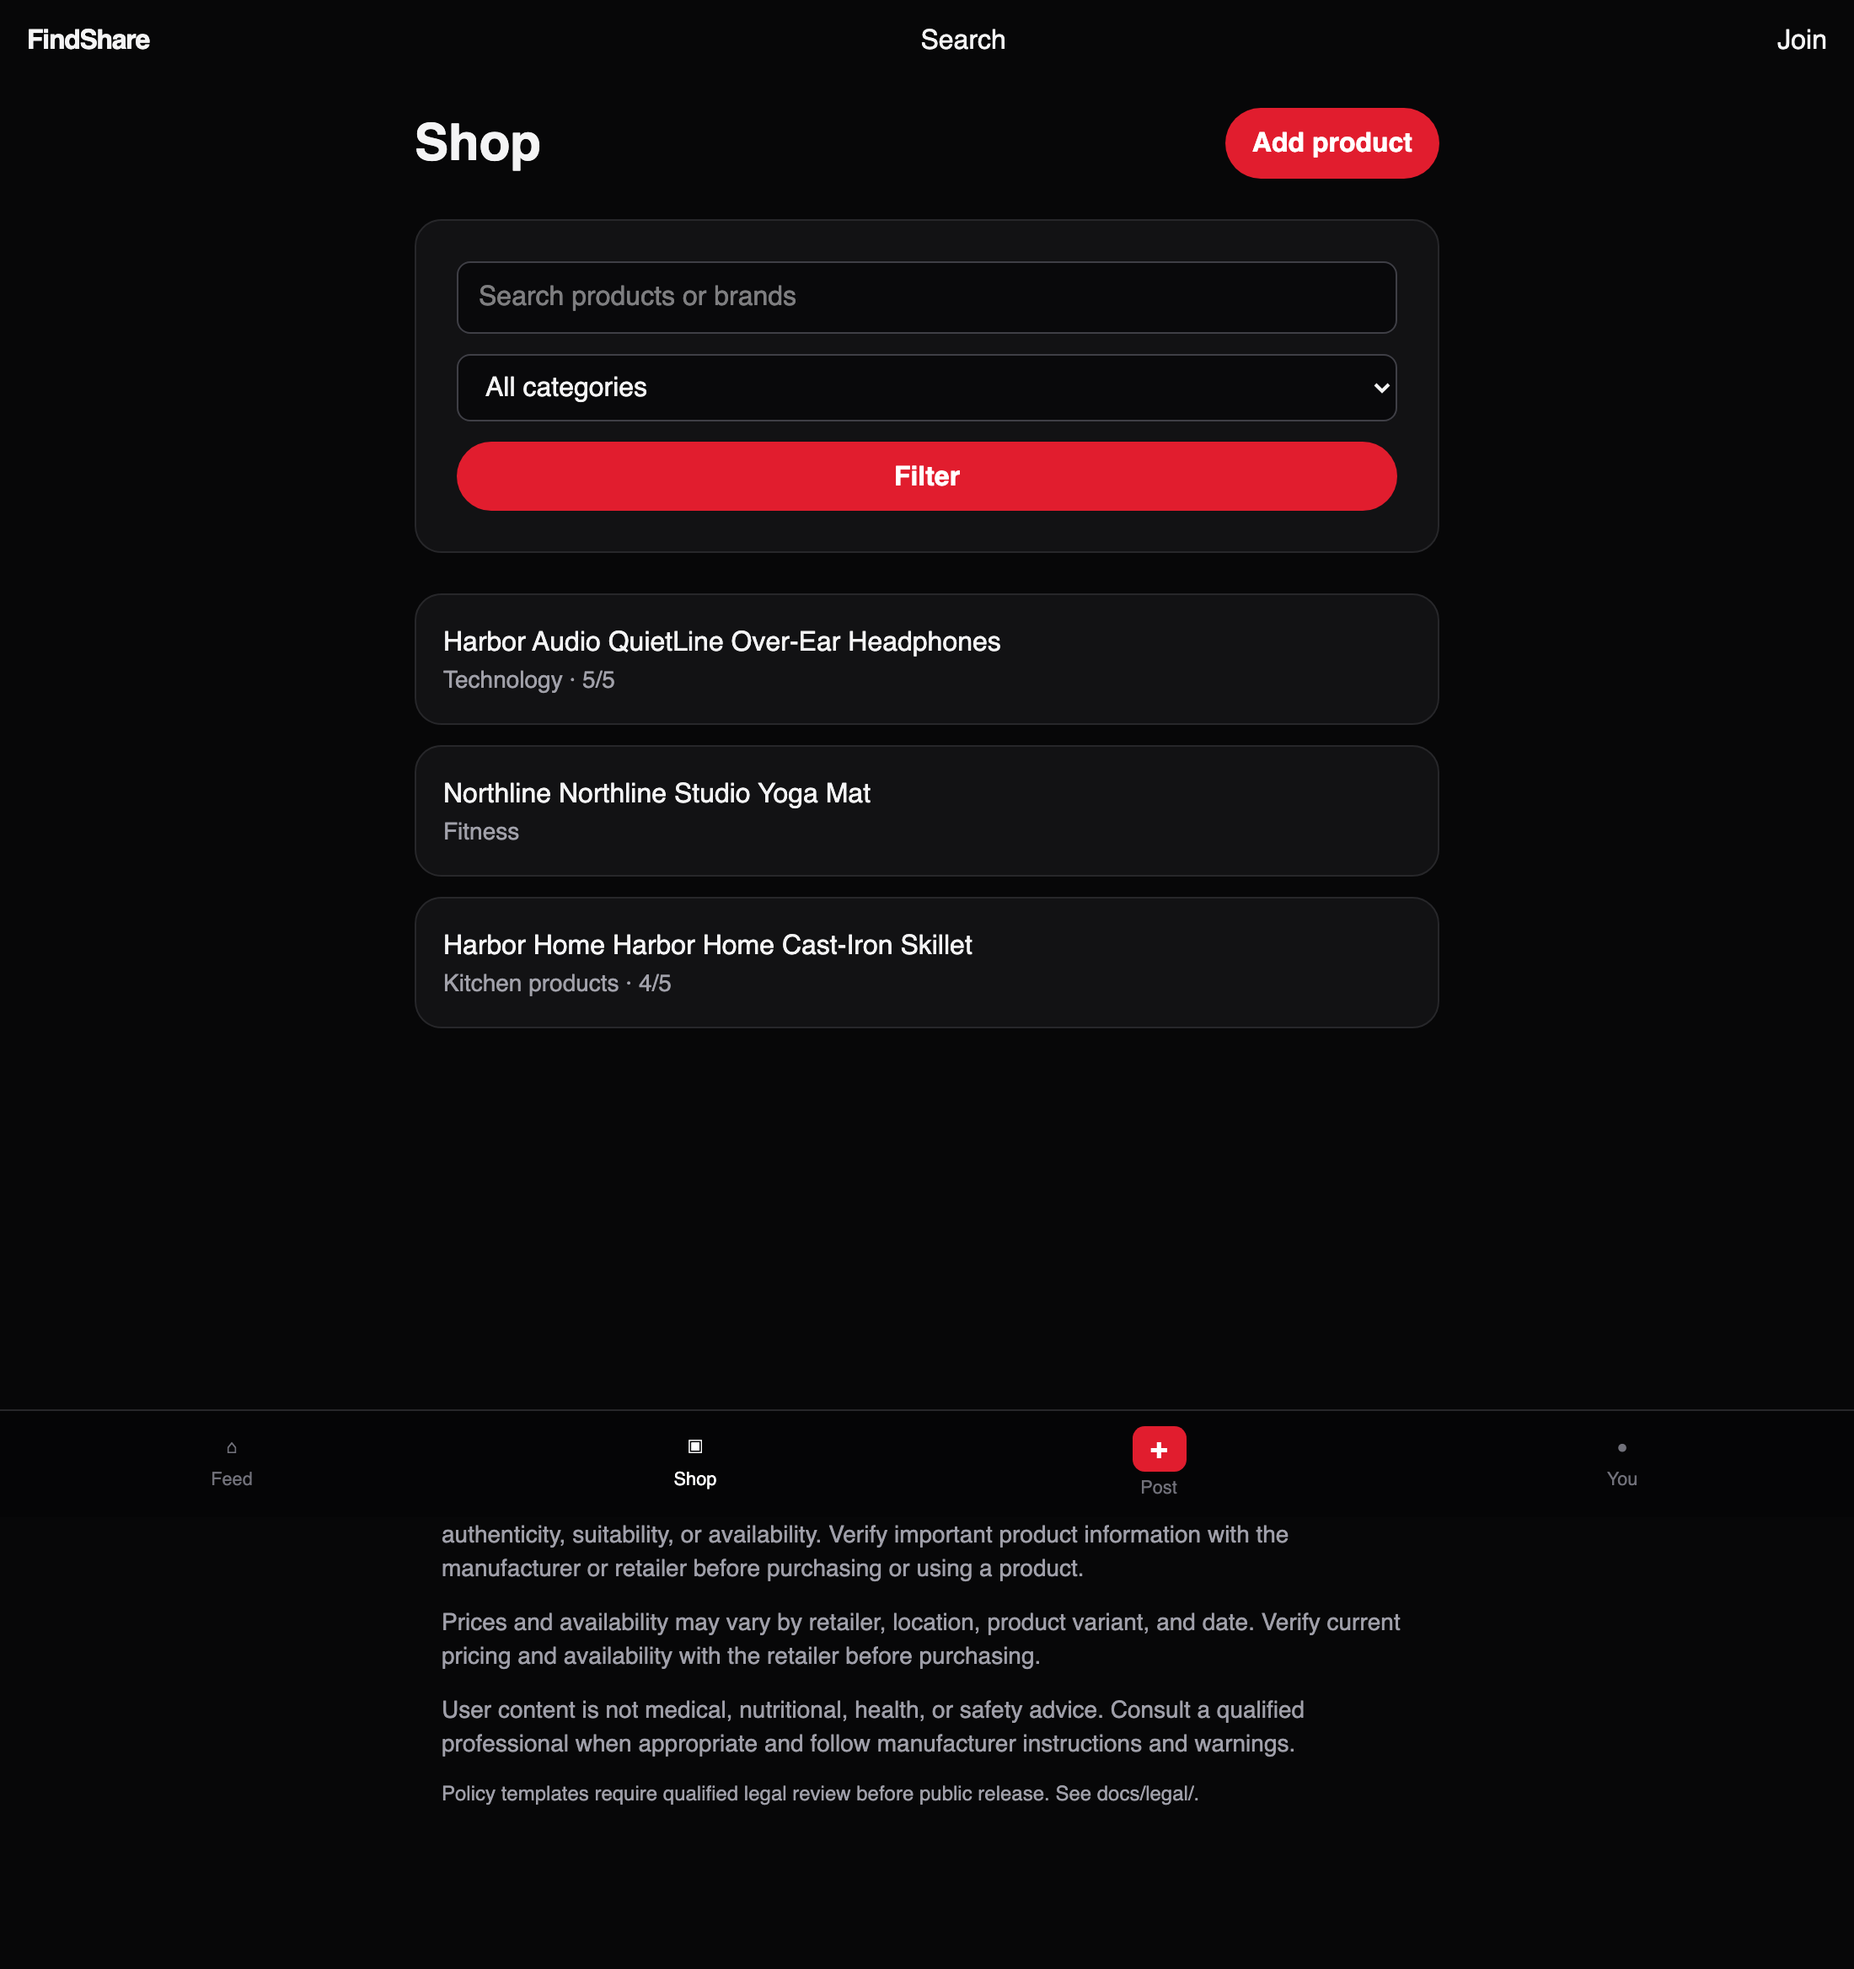
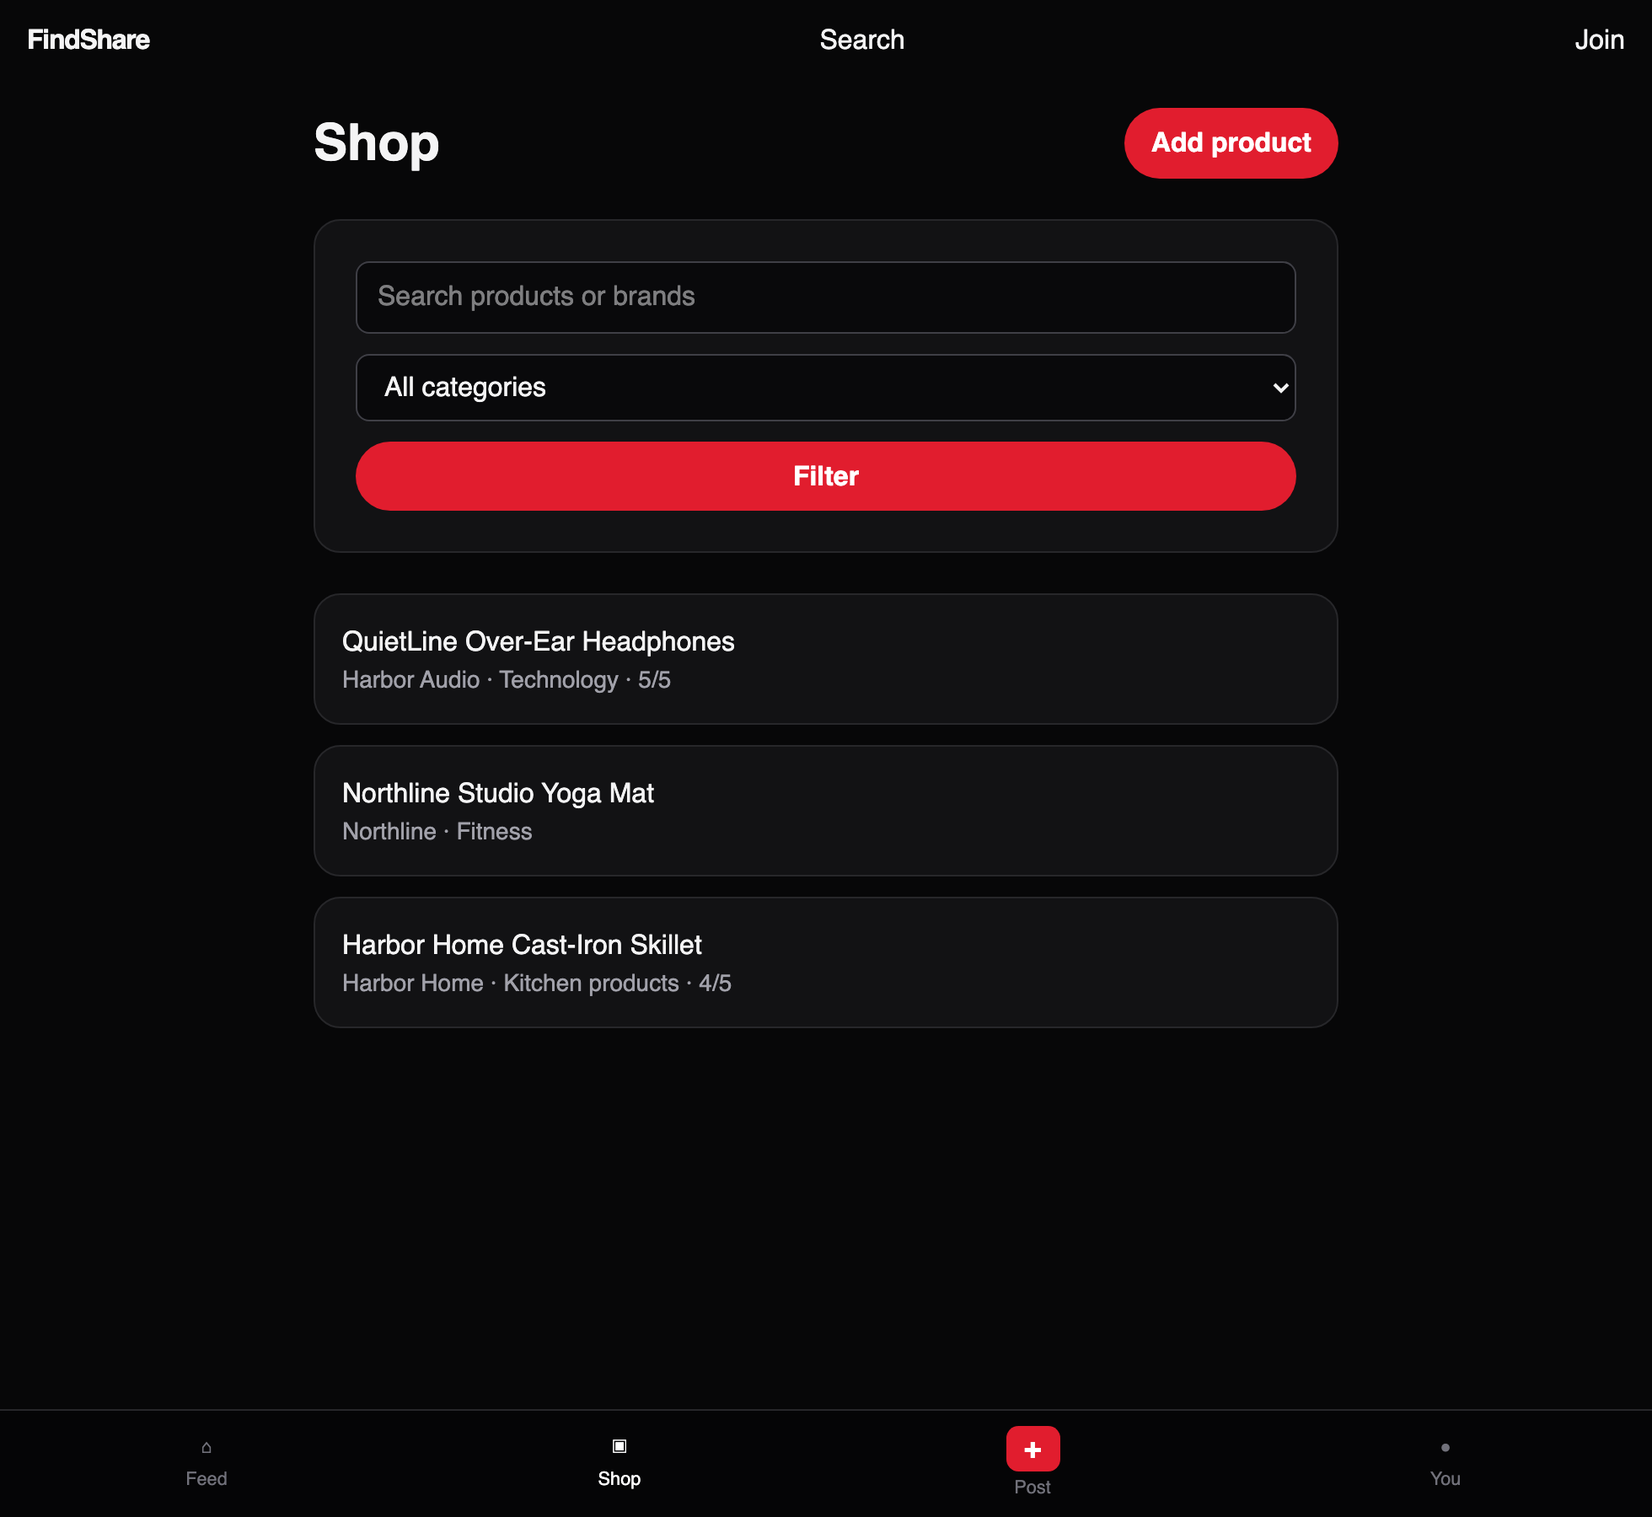
Refresh Phase 1 screenshots from the running local app.
Recapture feed, catalog, search, and signed-in flows after content has loaded, without the Next.js badge or duplicated brand names.

diff --git a/apps/web/src/app/products/page.tsx b/apps/web/src/app/products/page.tsx
@@ -70,9 +70,9 @@ export default function ProductsPage() {
         {items.map((product) => (
           <li key={product.id}>
             <Link href={`/products/${product.id}`} className="compact-card">
-              {product.brand_name} {product.name}
+              {product.name}
               <span className="muted block text-sm">
-                {product.category.name}
+                {product.brand_name} · {product.category.name}
                 {product.average_rating ? ` · ${product.average_rating}/5` : ""}
               </span>
             </Link>

diff --git a/apps/web/next.config.ts b/apps/web/next.config.ts
@@ -4,6 +4,7 @@ const api = process.env.API_INTERNAL_URL || "http://localhost:8000";
 
 const nextConfig: NextConfig = {
   output: "standalone",
+  devIndicators: false,
   async rewrites() {
     return [
       { source: "/api/:path*", destination: `${api}/api/:path*` },

diff --git a/docs/screenshots/README.md b/docs/screenshots/README.md
@@ -19,7 +19,7 @@ Regenerate (app must already be running):
 
 ```bash
 cd scripts && npm install puppeteer-core
-BASE_URL=http://localhost:3001 API_URL=http://localhost:8001 node capture-screenshots.mjs
+BASE_URL=http://localhost:3000 API_URL=http://localhost:8000 node capture-screenshots.mjs
 ```
 
 Do not treat these images as production traffic, live retailer prices, or measured scale.
